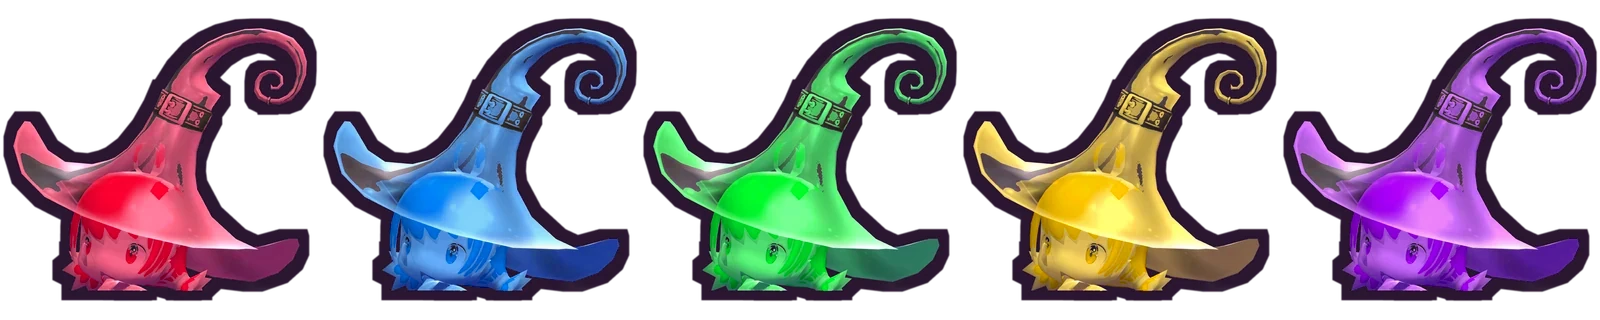
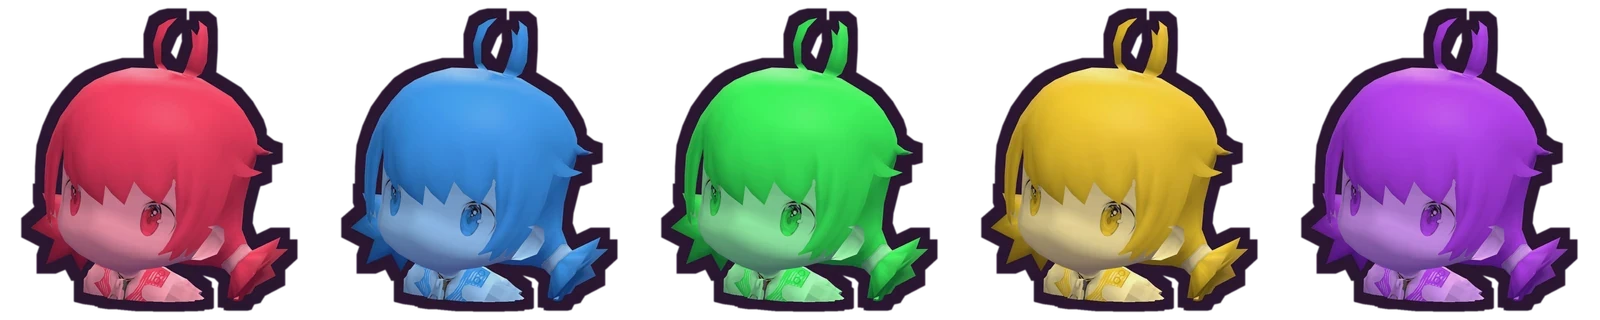
Halloween witch piece without her hat
Claude-Session: https://claude.ai/code/session_01PJqaFp3q7Xwtr3dcDZKH2A

diff --git a/puzzle/src/data/characters.ts b/puzzle/src/data/characters.ts
@@ -120,7 +120,7 @@ const ROWS: Row[] = [
   ['q_ninja', 'ドロン', 'SR', 189, { kind: 'random', name: 'かげぶんしん', desc: 'ランダムに28個消す', charge: 28, power: 3.7, amount: 28 }, '音もなくあらわれる、ねむそうな忍者。'],
   ['q_dragon', 'ドラコ', 'SR', 191, { kind: 'hline', name: 'ほのおのブレス', desc: '太い横一列を消す', charge: 24, power: 5.8, size: 2.4 }, '小さいけれど立派なドラゴン。'],
   ['s_mage', 'ライカ', 'SR', 190, { kind: 'vline', name: 'いなずまの柱', desc: '太い縦一列を消す', charge: 24, power: 4.2, size: 2.4 }, 'かみなりの魔法が得意な魔法使い。'],
-  ['s_witch', 'ハロウィンまじょ', 'SR', 188, { kind: 'bombs', name: 'トリックボム', desc: 'ボムを3個おとす', charge: 26, power: 7.5, amount: 3 }, 'ハロウィンの夜にだけあらわれる魔女っ子。'],
+  ['s_witch', 'ハロウィンまじょ', 'SR', 188, { kind: 'bombs', name: 'トリックボム', desc: 'ボムを3個おとす', charge: 26, power: 7.5, amount: 3 }, 'ハロウィンの夜にだけあらわれる魔女っ子。ぼうしはお休み中。'],
   // SSR
   ['skel_warrior', 'ホネ戦士', 'SSR', 250, { kind: 'twoColor', name: 'ダブルブレイク', desc: '多い2色を全部消す', charge: 20, power: 8.0 }, '角かぶとのスケルトン戦士。'],
   ['skel_rogue', 'ホネ盗賊', 'SSR', 245, { kind: 'feverTap', name: 'かげのうたげ', desc: 'フィーバー突入＋その間タップでまとめて消せる', charge: 60, power: 2.8 }, '赤いフードの神出鬼没なスケルトン。'],

diff --git a/puzzle/public/credits.html b/puzzle/public/credits.html
@@ -31,7 +31,7 @@ is pumpkin_orange_jackolantern from KayKit Halloween Bits by Kay Lousberg (CC0).
 &quot;Blender-chan&quot; by AmarilloArts (https://amarilloarts.itch.io/blender-chan), CC0 1.0 Universal. Pieces b_chan, b_chanG (head renders, recolored).
 &quot;Ultimate Monsters&quot; and &quot;Pirate Kit&quot; by Quaternius (https://quaternius.com), CC0 1.0 Universal. Pieces q_* (head renders, recolored).
 The following models are licensed under CC BY 4.0 (https://creativecommons.org/licenses/by/4.0/). Head renders, recolored for game pieces:
-- &quot;2016. Halloween little witch&quot; by goblin165cm (https://sketchfab.com/3d-models/2016-halloween-little-witch-ccc023590bfb4789af9322864e42d1ab) - piece s_witch
+- &quot;2016. Halloween little witch&quot; by goblin165cm (https://sketchfab.com/3d-models/2016-halloween-little-witch-ccc023590bfb4789af9322864e42d1ab) - piece s_witch (hat and props removed)
 - &quot;Chibi Nekogirl&quot; by xmnepank (https://sketchfab.com/3d-models/chibi-nekogirl-fbabd7b43705464b827f0f309fbf2bb3) - piece s_neko
 - &quot;Chibi Yste&quot; by xmnepank (https://sketchfab.com/3d-models/chibi-yste-fdcb874a61284a5aa7aa8cf5d9f57b5b) - piece s_yste
 - &quot;Hellhound Monster Girl ~Chibi~&quot; by Shortskirts (https://sketchfab.com/3d-models/hellhound-monster-girl-chibi-4791884022a743f6a8d240e0ce692274) - piece s_hound
